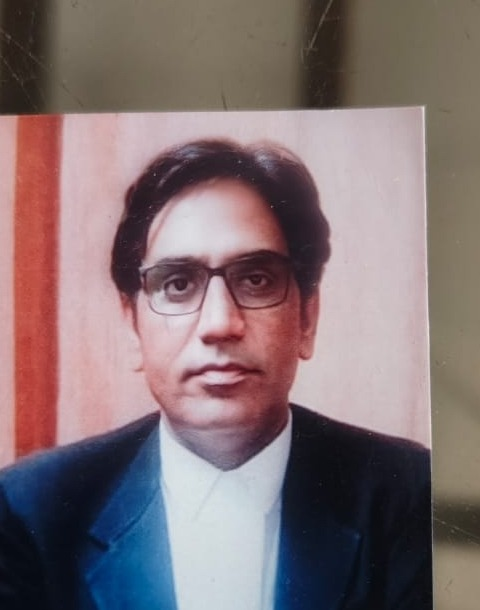
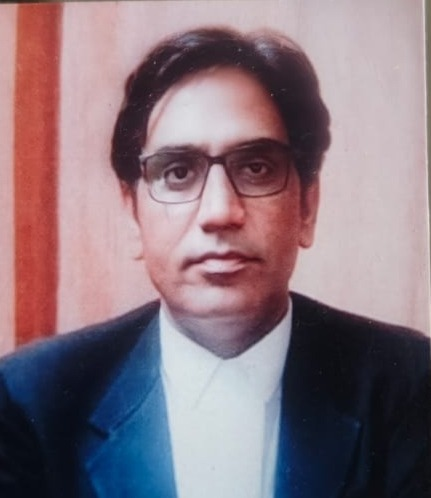
Minor Changes

diff --git a/src/routes/index.tsx b/src/routes/index.tsx
@@ -387,8 +387,17 @@ function ConsultSection() {
 
 function Insights() {
   const { data: posts } = useSuspenseQuery(postsQuery);
+
+  const handleViewAll = (e: React.MouseEvent<HTMLButtonElement>) => {
+    e.preventDefault();
+    const target = document.getElementById("blogs");
+    if (target) {
+      target.scrollIntoView({ behavior: "smooth", block: "start" });
+    }
+  };
+
   return (
-    <section>
+    <section id="blogs">
       <div className="mx-auto max-w-7xl px-6 py-24 lg:px-10 lg:py-32">
         <div className="flex flex-col items-start justify-between gap-4 lg:flex-row lg:items-end">
           <div>
@@ -402,9 +411,12 @@ function Insights() {
               Explore our most-read legal articles and resources.
             </p>
           </div>
-          <a href="https://nbassociates.net/blog" className="text-[12px] font-medium uppercase tracking-[0.18em] text-navy hover:underline no-underline">
-            View all articles →
-          </a>
+          <button
+            onClick={handleViewAll}
+            className="text-[12px] font-medium uppercase tracking-[0.18em] text-navy hover:underline bg-transparent border-0 cursor-pointer p-0"
+          >
+            View All Articles →
+          </button>
         </div>
 
         <div className="mt-14 grid gap-px overflow-hidden border border-border bg-border md:grid-cols-3">

diff --git a/src/components/SocialShare.tsx b/src/components/SocialShare.tsx
@@ -192,11 +192,11 @@ export function SocialShare() {
             borderRadius: 3,
             border: isActive
               ? "1px solid var(--gold)"
-              : "1px solid transparent",
+              : `1px solid ${brandColor}33`,
             background: isActive
               ? "rgba(200,168,90, 0.08)"
-              : "transparent",
-            color: isActive ? "var(--gold)" : "var(--muted-foreground)",
+              : `${brandColor}0d`,
+            color: isActive ? "var(--gold)" : brandColor,
             cursor: "pointer",
             transition:
               "color 0.18s, border-color 0.18s, background 0.18s, transform 0.15s, box-shadow 0.18s",
@@ -209,15 +209,17 @@ export function SocialShare() {
               if (isActive) return;
               const el = e.currentTarget as HTMLElement;
               el.style.color = brandColor;
-              el.style.borderColor = brandColor + "66"; // 40% alpha border
+              el.style.borderColor = brandColor + "99";
+              el.style.background = brandColor + "22";
               el.style.transform = "translateY(-2px)";
-              el.style.boxShadow = `0 4px 12px ${brandColor}30`;
+              el.style.boxShadow = `0 4px 12px ${brandColor}40`;
             },
             onMouseLeave: (e: React.MouseEvent<HTMLElement>) => {
               if (isActive) return;
               const el = e.currentTarget as HTMLElement;
-              el.style.color = "var(--muted-foreground)";
-              el.style.borderColor = "transparent";
+              el.style.color = brandColor;
+              el.style.borderColor = brandColor + "33";
+              el.style.background = brandColor + "0d";
               el.style.transform = "translateY(0)";
               el.style.boxShadow = "none";
             },

diff --git a/src/routes/about.tsx b/src/routes/about.tsx
@@ -52,7 +52,15 @@ function AboutPage() {
 
         <section>
           <div className="mx-auto max-w-3xl px-6 py-20 lg:px-10">
-            <div className="space-y-8 text-base leading-relaxed text-muted-foreground">
+            <div
+              className="space-y-8 text-base leading-relaxed text-muted-foreground"
+              style={{ lineHeight: 1.9, fontWeight: 500 }}
+            >
+              <style>{`
+                @media (min-width: 1024px) { .about-prose { text-align: justify; } }
+                @media (max-width: 1023px) { .about-prose { text-align: left; } }
+              `}</style>
+              <div className="about-prose space-y-8">
 
               <p>
                 NB Associates – Advocates &amp; Legal Consultants is a distinguished full-service
@@ -152,6 +160,7 @@ function AboutPage() {
                 the unique legal requirements of every client and delivering customized legal
                 strategies designed to achieve the best possible outcomes.
               </p>
+            </div>
             </div>
           </div>
         </section>